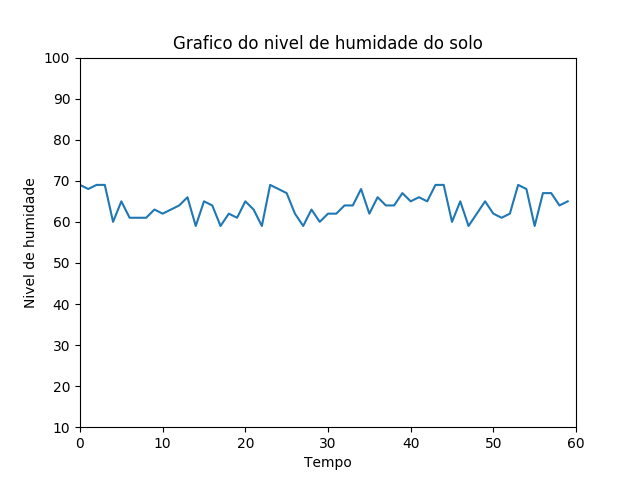
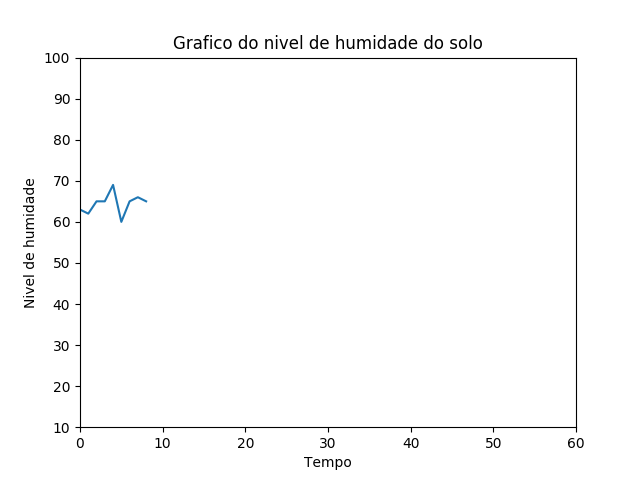
criacao do projeto plotter

Changed region(s): [[0.125, 0.375, 0.5312, 0.4688], [0.5312, 0.375, 0.9062, 0.4688]]

diff --git a/plotter/main.py b/plotter/main.py
@@ -1,0 +1,104 @@
+'''
+Graphic plotter
+
+Aplicativo desenvolvido para desktop com PyQt5 que tem por
+finalidade plotar graficamente informações com a biblioteca
+matplotlib
+
+Autor: Mario Borges
+Website: https://alpinista06.github.io
+Ultima edicao: 16/08/2018
+'''
+
+import sys
+from PyQt5.QtGui import *
+from PyQt5.QtWidgets import *
+from PyQt5.QtCore import *
+from plotter import Ui_plotter
+import random
+import time
+
+#Importacao do modulo matplotlib
+import matplotlib.pyplot as plt
+import numpy as np
+
+
+class grafico(QDialog, Ui_plotter):
+
+
+#variaveis globais e configuracao da plotagem
+
+    leitura =[]
+    fig, ax = plt.subplots(figsize=(5,4))
+    i = 0
+    comeco_eixo_x = 0
+    fim_eixo_x = 50
+
+    def __init__(self, parent=None):
+        super(grafico, self).__init__()
+        self.setupUi(self)
+
+        # configuracao padrao do timer usando para criar um main loop
+        self.meu_timer = QTimer()
+        #configurando o intervalo entre as contagens do timer em microsec
+        self.meu_timer.setInterval(1000)
+        self.meu_timer.timeout.connect(self.contador)
+        self.contador_do_timer = 0
+
+        #conectores de eventos
+        self.iniciar.clicked.connect(self.btn_iniciar)
+        self.parar.clicked.connect(self.btn_parar)
+
+    def btn_iniciar(self):
+        self.meu_timer.start()
+
+    def btn_parar(self):
+        self.meu_timer.stop()
+
+    def contador(self):
+        self.contador_do_timer = self.contador_do_timer + 1
+        self.plot(self.ax, self.leitura, self.fig, self.i, self.comeco_eixo_x, self.fim_eixo_x)
+
+    # Metodo que plota um grafico, cria uma imagem chamada plot.jpg
+    # e por fim insere essa imagem no label chamado grafico
+    # parametros
+    # ax: inicializacao do eixos
+    # leitura: vetor que recebe os dados a cada loop
+    # fig: inicializacao de uma figura para para salvar a plotagem
+    # i: parametro usado no metodo pop para mover a linha do Grafico
+    # fim_eixo_x: parametro que seta o fim do eixo x
+    # comeco_eixo_x:parametro que seta o comeco do eixo x
+    def plot(self, ax, leitura, fig, i, comeco_eixo_x, fim_eixo_x):
+        #neste exemplo estou plotando um numero randomico
+        dados = random.randint(59,69)
+        ax.clear()
+        #Titulo do grafico
+        plt.title('Grafico do nivel de humidade do solo')
+        ax.set_xlim([comeco_eixo_x, fim_eixo_x])   #faixa do eixo horizontal
+        plt.xlabel('Tempo')
+        ax.set_ylim([0,100]) # faixa do eixo vertical
+        plt.ylabel('Nivel de humidade')
+        leitura.append(dados)
+        # plotagem do vetor de dados
+        ax.plot(leitura)
+        # salvando a imagem em uma fiura
+        fig.savefig('plot.jpg')
+        # bloco que move o eixo x quando a plotagem passa do limite
+        if (self.contador_do_timer > fim_eixo_x):
+            self.comeco_eixo_x += 1
+            self.fim_eixo_x += 1
+            leitura.pop(2)
+            i=i+1
+        # inserindo uma imagem no label grafico
+        pixmap = QPixmap('plot.jpg')
+        self.grafico.setPixmap(pixmap)
+
+
+def main():
+    app = QApplication(sys.argv)
+    form = grafico()
+    form.show()
+    app.exec_()
+
+if __name__ == '__main__':
+    main()

diff --git a/plotter/plotter.py b/plotter/plotter.py
@@ -1,0 +1,51 @@
+# -*- coding: utf-8 -*-
+
+# Form implementation generated from reading ui file 'plotter.ui'
+#
+# Created by: PyQt5 UI code generator 5.11.2
+#
+# WARNING! All changes made in this file will be lost!
+
+from PyQt5 import QtCore, QtGui, QtWidgets
+
+class Ui_plotter(object):
+    def setupUi(self, plotter):
+        plotter.setObjectName("plotter")
+        plotter.resize(500, 437)
+        self.centralwidget = QtWidgets.QWidget(plotter)
+        self.centralwidget.setObjectName("centralwidget")
+        self.verticalLayoutWidget = QtWidgets.QWidget(self.centralwidget)
+        self.verticalLayoutWidget.setGeometry(QtCore.QRect(0, 0, 501, 361))
+        self.verticalLayoutWidget.setObjectName("verticalLayoutWidget")
+        self.verticalLayout = QtWidgets.QVBoxLayout(self.verticalLayoutWidget)
+        self.verticalLayout.setContentsMargins(0, 0, 0, 0)
+        self.verticalLayout.setObjectName("verticalLayout")
+        self.grafico = QtWidgets.QLabel(self.verticalLayoutWidget)
+        self.grafico.setLayoutDirection(QtCore.Qt.LeftToRight)
+        self.grafico.setTextFormat(QtCore.Qt.AutoText)
+        self.grafico.setAlignment(QtCore.Qt.AlignCenter)
+        self.grafico.setObjectName("grafico")
+        self.verticalLayout.addWidget(self.grafico)
+        self.horizontalLayoutWidget = QtWidgets.QWidget(self.centralwidget)
+        self.horizontalLayoutWidget.setGeometry(QtCore.QRect(0, 360, 351, 61))
+        self.horizontalLayoutWidget.setObjectName("horizontalLayoutWidget")
+        self.horizontalLayout = QtWidgets.QHBoxLayout(self.horizontalLayoutWidget)
+        self.horizontalLayout.setContentsMargins(0, 0, 0, 0)
+        self.horizontalLayout.setObjectName("horizontalLayout")
+        self.iniciar = QtWidgets.QPushButton(self.horizontalLayoutWidget)
+        self.iniciar.setObjectName("iniciar")
+        self.horizontalLayout.addWidget(self.iniciar)
+        self.parar = QtWidgets.QPushButton(self.horizontalLayoutWidget)
+        self.parar.setObjectName("parar")
+        self.horizontalLayout.addWidget(self.parar)
+        #plotter.setCentralWidget(self.centralwidget)
+
+        self.retranslateUi(plotter)
+        QtCore.QMetaObject.connectSlotsByName(plotter)
+
+    def retranslateUi(self, plotter):
+        _translate = QtCore.QCoreApplication.translate
+        plotter.setWindowTitle(_translate("plotter", "Plotter"))
+        self.grafico.setText(_translate("plotter", "Grafico"))
+        self.iniciar.setText(_translate("plotter", "Iniciar plotagem"))
+        self.parar.setText(_translate("plotter", "Parar plotagem"))

diff --git a/myview.py b/myview.py
@@ -1,0 +1,35 @@
+# simple code by Krystian Samp - krychu (samp[dot]krystian[monkey]gmail.com), November 2006
+
+import sys
+from PyQt4 import QtGui, QtCore
+
+class MyView(QtGui.QGraphicsView):
+    def __init__(self):
+        QtGui.QGraphicsView.__init__(self)
+
+        self.scene = QtGui.QGraphicsScene(self)
+        self.item = QtGui.QGraphicsEllipseItem(-20, -10, 40, 20)
+        self.scene.addItem(self.item)
+        self.setScene(self.scene)
+
+        # Remember to hold the references to QTimeLine and QGraphicsItemAnimation instances.
+        # They are not kept anywhere, even if you invoke QTimeLine.start().
+        self.tl = QtCore.QTimeLine(1000)
+        self.tl.setFrameRange(0, 100)
+        self.a = QtGui.QGraphicsItemAnimation()
+        self.a.setItem(self.item)
+        self.a.setTimeLine(self.tl)
+
+        # Each method determining an animation state (e.g. setPosAt, setRotationAt etc.)
+        # takes as a first argument a step which is a value between 0 (the beginning of the
+        # animation) and 1 (the end of the animation)
+        self.a.setPosAt(0, QtCore.QPointF(0, -10))
+        self.a.setRotationAt(1, 360)
+
+        self.tl.start()
+
+if __name__ == '__main__':
+    app = QtGui.QApplication(sys.argv)
+    view = MyView()
+    view.show()
+    sys.exit(app.exec_())

diff --git a/controle_estufa/ui_controle_estufa5.py b/controle_estufa/ui_controle_estufa5.py
@@ -11,7 +11,7 @@ from PyQt5 import QtCore, QtGui, QtWidgets
 class Ui_controle_estufa(object):
     def setupUi(self, controle_estufa):
         controle_estufa.setObjectName("controle_estufa")
-        controle_estufa.resize(412, 325)
+        controle_estufa.resize(408, 327)
         self.centralwidget = QtWidgets.QWidget(controle_estufa)
         self.centralwidget.setEnabled(True)
         self.centralwidget.setObjectName("centralwidget")
@@ -90,6 +90,11 @@ class Ui_controle_estufa(object):
         self.parar_medicoes = QtWidgets.QPushButton(self.verticalLayoutWidget_2)
         self.parar_medicoes.setObjectName("parar_medicoes")
         self.verticalLayout_2.addWidget(self.parar_medicoes)
+        self.horizontalLayoutWidget.raise_()
+        self.horizontalLayoutWidget_2.raise_()
+        self.horizontalLayoutWidget_3.raise_()
+        self.verticalLayoutWidget.raise_()
+        self.verticalLayoutWidget_2.raise_()
         #controle_estufa.setCentralWidget(self.centralwidget)
 
         self.retranslateUi(controle_estufa)

diff --git a/controle_estufa/main5.py b/controle_estufa/main5.py
@@ -100,7 +100,7 @@ class controlador(QDialog, Ui_controle_estufa):
         fig, ax = plt.subplots()
         ax.clear()
         plt.title('Grafico do nivel de humidade do solo')
-        ax.set_xlim([0,100])   #faixa do eixo horizontal
+        ax.set_xlim([0,10])   #faixa do eixo horizontal
         plt.xlabel('Tempo')
         ax.set_ylim([0,10]) # faixa do eixo vertical
         plt.ylabel('Nivel de humidade')

diff --git a/controle_estufa/grafico.py b/controle_estufa/grafico.py
@@ -33,8 +33,9 @@ while (i<60):
     plt.pause(1)
     fig.savefig('plotter.png')
     contador = contador + 1
+
     if (contador > eixo_x):
 	   leitura.pop(0)
     i=i+1
-
+    
 #ser.close()

diff --git a/plotter/README.md b/plotter/README.md
@@ -1,0 +1,6 @@
+# Graphic plotter
+
+## Objetivos
+Aplicativo desenvolvido para desktop com PyQt5 que tem por
+finalidade plotar graficamente informações com a biblioteca
+matplotlib.
